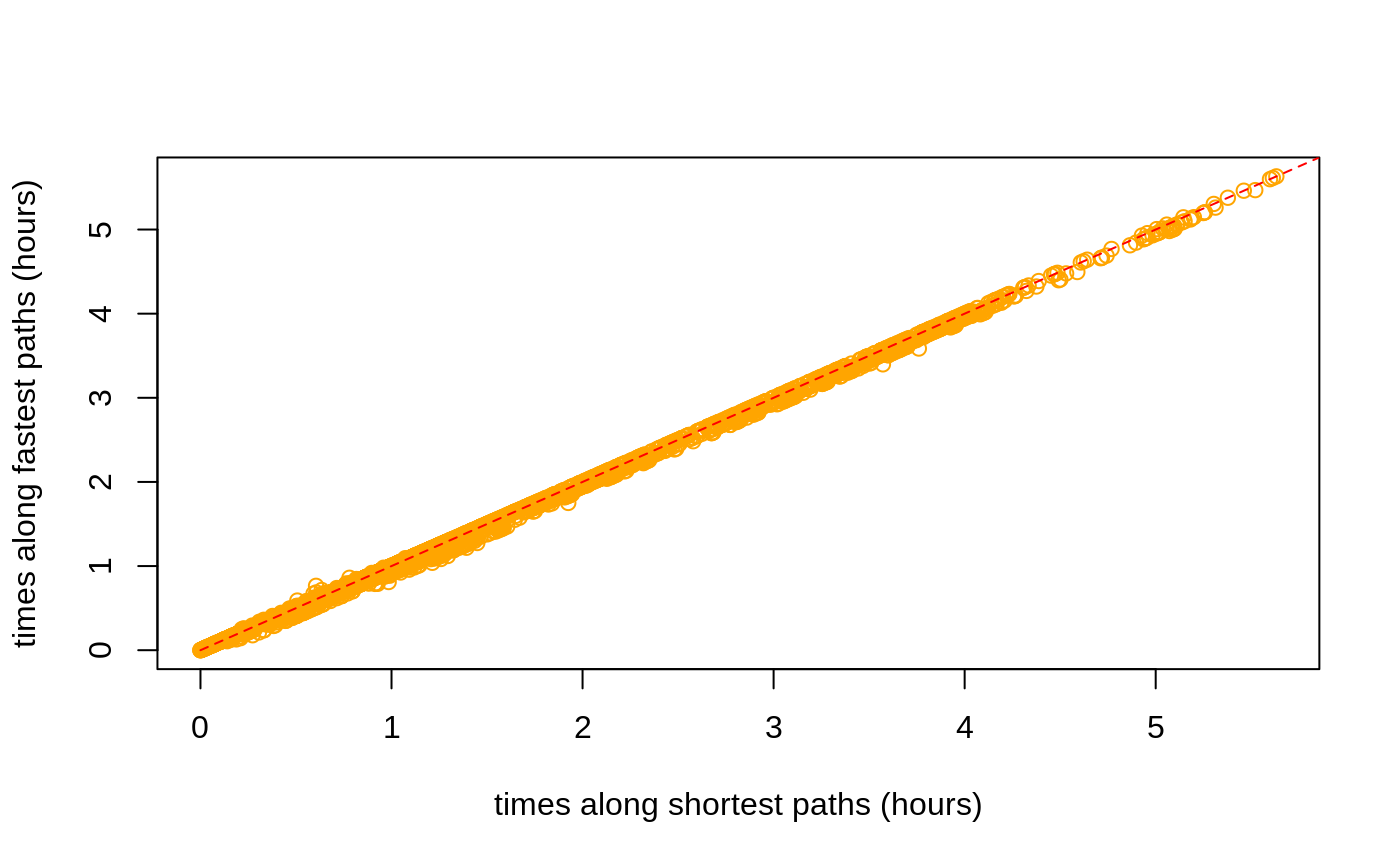
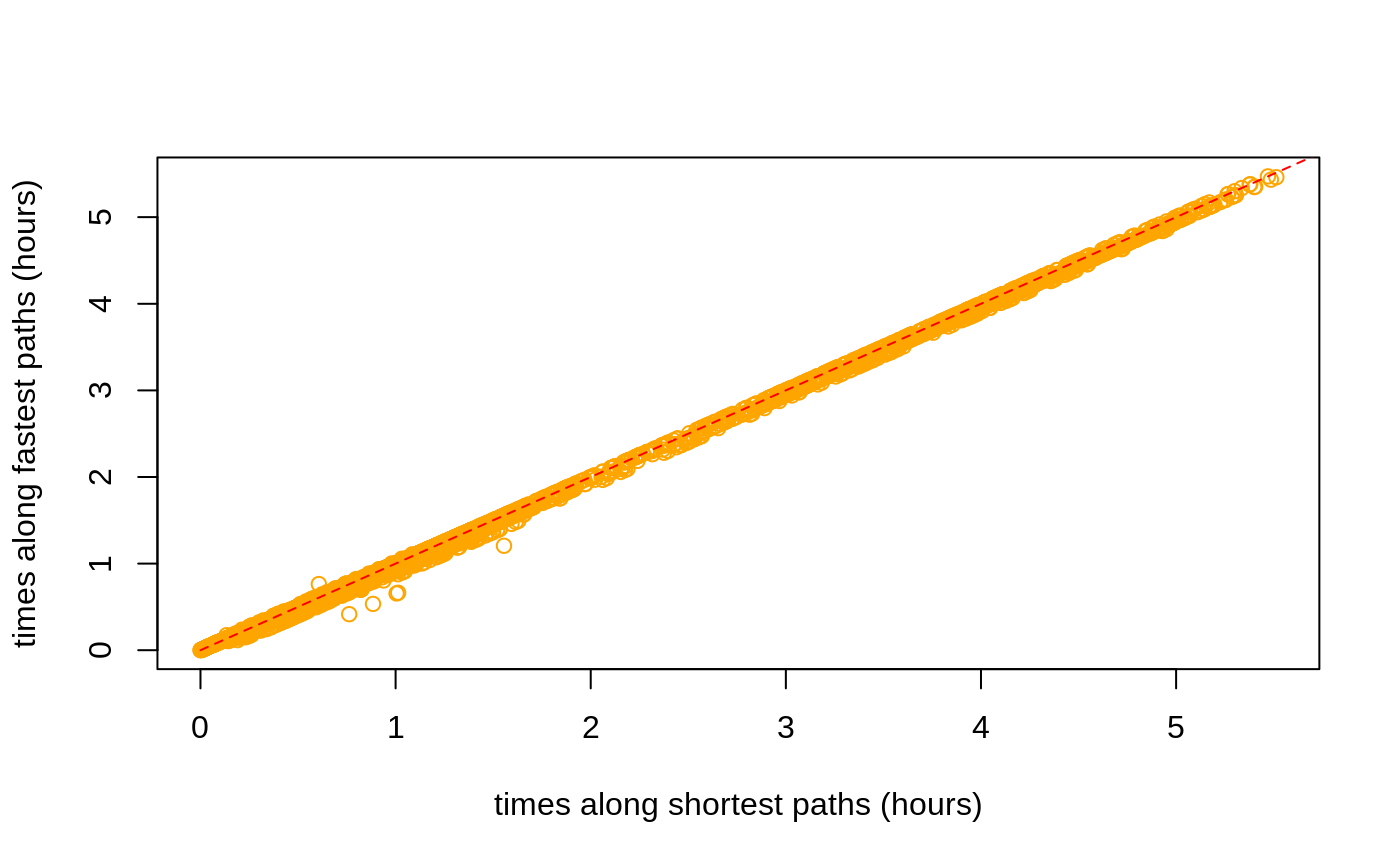
Built site for dodgr: 0.2.0.11@3eb94fd

diff --git a/articles/dodgr.html b/articles/dodgr.html
@@ -31,7 +31,7 @@
       </button>
       <span class="navbar-brand">
         <a class="navbar-link" href="../index.html">dodgr</a>
-        <span class="version label label-default" data-toggle="tooltip" data-placement="bottom" title="Released version">0.2.0.10</span>
+        <span class="version label label-default" data-toggle="tooltip" data-placement="bottom" title="Released version">0.2.0.11</span>
       </span>
     </div>
 
@@ -346,7 +346,7 @@ Figure 2: A <strong>dual</strong>-weighted, directed graph in which the weights 
 <p>The <code>dodgr</code> packages includes a function to select a random connected portion of graph including a specified number of vertices. This function is used in the <a href="https://atfutures.github.io/dodgr/reference/compare_heaps.html"><code><a href="../reference/compare_heaps.html">compare_heaps()</a></code></a> function described below, but is also useful for general statistical analyses of large graphs which may otherwise take too long to compute.</p>
 <div class="sourceCode" id="cb59"><pre class="sourceCode r"><code class="sourceCode r"><a class="sourceLine" id="cb59-1" data-line-number="1">graph_sub &lt;-<span class="st"> </span><span class="kw"><a href="../reference/dodgr_sample.html">dodgr_sample</a></span> (graph, <span class="dt">nverts =</span> <span class="dv">100</span>)</a>
 <a class="sourceLine" id="cb59-2" data-line-number="2"><span class="kw"><a href="https://rdrr.io/r/base/nrow.html">nrow</a></span> (graph_sub)</a></code></pre></div>
-<pre><code>## [1] 197</code></pre>
+<pre><code>## [1] 201</code></pre>
 <p>The random sample has around twice as many edges as vertices, in accordance with the statistics calculated above.</p>
 <div class="sourceCode" id="cb61"><pre class="sourceCode r"><code class="sourceCode r"><a class="sourceLine" id="cb61-1" data-line-number="1"><span class="kw"><a href="https://rdrr.io/r/base/nrow.html">nrow</a></span> (<span class="kw"><a href="../reference/dodgr_vertices.html">dodgr_vertices</a></span> (graph_sub))</a></code></pre></div>
 <pre><code>## [1] 100</code></pre>
@@ -423,31 +423,31 @@ Figure 2: A <strong>dual</strong>-weighted, directed graph in which the weights 
 <p>The comparisons are actually made on a randomly selected sub-component of the graph containing a defined number of vertices (with a default of 1,000, or the entire graph if it contains fewer than 1,000 vertices).</p>
 <div class="sourceCode" id="cb77"><pre class="sourceCode r"><code class="sourceCode r"><a class="sourceLine" id="cb77-1" data-line-number="1"><span class="kw"><a href="../reference/compare_heaps.html">compare_heaps</a></span> (graph, <span class="dt">nverts =</span> <span class="dv">100</span>, <span class="dt">replications =</span> <span class="dv">1</span>)</a></code></pre></div>
 <pre><code>##                                                                                   test
+## 12                  d &lt;- igraph::distances(igr, v = from_id, to = to_id, mode = "out")
 ## 6       d &lt;- dodgr_dists(graph_contracted, from = from_id, to = to_id, heap = "BHeap")
+## 9  d &lt;- dodgr_dists(graph_contracted, from = from_id, to = to_id, heap = "TriHeapExt")
+## 10     d &lt;- dodgr_dists(graph_contracted, from = from_id, to = to_id, heap = "Heap23")
 ## 7       d &lt;- dodgr_dists(graph_contracted, from = from_id, to = to_id, heap = "FHeap")
 ## 8     d &lt;- dodgr_dists(graph_contracted, from = from_id, to = to_id, heap = "TriHeap")
-## 10     d &lt;- dodgr_dists(graph_contracted, from = from_id, to = to_id, heap = "Heap23")
-## 12                  d &lt;- igraph::distances(igr, v = from_id, to = to_id, mode = "out")
-## 9  d &lt;- dodgr_dists(graph_contracted, from = from_id, to = to_id, heap = "TriHeapExt")
 ## 11        d &lt;- dodgr_dists(graph_contracted, from = from_id, to = to_id, heap = "set")
 ## 4             d &lt;- dodgr_dists(graph, from = from_id, to = to_id, heap = "TriHeapExt")
-## 5                 d &lt;- dodgr_dists(graph, from = from_id, to = to_id, heap = "Heap23")
 ## 1                  d &lt;- dodgr_dists(graph, from = from_id, to = to_id, heap = "BHeap")
+## 5                 d &lt;- dodgr_dists(graph, from = from_id, to = to_id, heap = "Heap23")
 ## 2                  d &lt;- dodgr_dists(graph, from = from_id, to = to_id, heap = "FHeap")
 ## 3                d &lt;- dodgr_dists(graph, from = from_id, to = to_id, heap = "TriHeap")
 ##    replications elapsed relative user.self sys.self user.child sys.child
-## 6             1   0.002      1.0     0.003        0          0         0
-## 7             1   0.002      1.0     0.003        0          0         0
-## 8             1   0.002      1.0     0.002        0          0         0
-## 10            1   0.002      1.0     0.002        0          0         0
-## 12            1   0.002      1.0     0.002        0          0         0
-## 9             1   0.003      1.5     0.003        0          0         0
-## 11            1   0.003      1.5     0.003        0          0         0
-## 4             1   0.004      2.0     0.004        0          0         0
-## 5             1   0.004      2.0     0.003        0          0         0
-## 1             1   0.005      2.5     0.005        0          0         0
-## 2             1   0.005      2.5     0.006        0          0         0
-## 3             1   0.005      2.5     0.005        0          0         0</code></pre>
+## 12            1   0.001        1     0.002    0.000          0         0
+## 6             1   0.002        2     0.000    0.003          0         0
+## 9             1   0.002        2     0.003    0.000          0         0
+## 10            1   0.002        2     0.003    0.000          0         0
+## 7             1   0.003        3     0.003    0.000          0         0
+## 8             1   0.003        3     0.003    0.000          0         0
+## 11            1   0.003        3     0.003    0.000          0         0
+## 4             1   0.004        4     0.005    0.000          0         0
+## 1             1   0.005        5     0.005    0.000          0         0
+## 5             1   0.005        5     0.006    0.000          0         0
+## 2             1   0.006        6     0.006    0.000          0         0
+## 3             1   0.006        6     0.005    0.000          0         0</code></pre>
 <p>The key column of that <code>data.frame</code> is <code>relative</code>, which quantifies the relative performance of each test in relation to the best which is given a score of 1. <code>dodgr</code> using the default <code>heap = "BHeap"</code>, which is a binary heap priority queue, performs faster than <a href="https://igraph.org"><code>igraph</code></a> <span class="citation">(Csardi and Nepusz 2006)</span> for these graphs. Different kind of graphs will perform differently with different priority queue structures, and this function enables users to empirically discern the optimal heap for their kind of graph.</p>
 <p>Note, however, that this is not an entirely fair comparison, because <code>dodgr</code> calculates dual-weighted distances, whereas <a href="https://igraph.org"><code>igraph</code></a>—and indeed all other <strong>R</strong> packages—only directly calculate distances based on a single set of weights. Implementing dual-weighted routing in these cases requires explicitly re-tracing all paths and summing the second set of weights along each path. A time comparison in that case would be very strongly in favour of <code>dodgr</code>. Moreover, <code>dodgr</code> can convert graphs to contracted form through removing redundant vertices, as detailed in the following section. Doing so greatly improves performance with respect to <a href="https://igraph.org"><code>igraph</code></a>.</p>
 <p>For those wishing to do explicit comparisons themselves, the following code generates the <a href="https://igraph.org"><code>igraph</code></a> equivalent of <a href="https://atfutures.github.io/dodgr/reference/dodgr_distances.html"><code><a href="../reference/dodgr_distances.html">dodgr_distances()</a></code></a>, although of course for single-weighted graphs only:</p>
@@ -500,11 +500,11 @@ Figure 3: <strong>(A)</strong> Vertex#2 is redundant for routing calculations fr
 <pre><code>## [1] 672</code></pre>
 <div class="sourceCode" id="cb89"><pre class="sourceCode r"><code class="sourceCode r"><a class="sourceLine" id="cb89-1" data-line-number="1">verts &lt;-<span class="st"> </span><span class="kw"><a href="https://rdrr.io/r/base/sample.html">sample</a></span> (<span class="kw"><a href="../reference/dodgr_vertices.html">dodgr_vertices</a></span> (graph)<span class="op">$</span>id, <span class="dt">size =</span> <span class="dv">100</span>)</a>
 <a class="sourceLine" id="cb89-2" data-line-number="2"><span class="kw"><a href="https://rdrr.io/r/utils/head.html">head</a></span> (verts) <span class="co"># a character vector</span></a></code></pre></div>
-<pre><code>## [1] "1161117704" "1148814864" "339574314"  "2398957697" "1691495929"
-## [6] "2398957864"</code></pre>
+<pre><code>## [1] "339318490"  "4337842215" "2608163897" "1376768821" "1376768839"
+## [6] "980400706"</code></pre>
 <div class="sourceCode" id="cb91"><pre class="sourceCode r"><code class="sourceCode r"><a class="sourceLine" id="cb91-1" data-line-number="1">grc &lt;-<span class="st"> </span><span class="kw"><a href="../reference/dodgr_contract_graph.html">dodgr_contract_graph</a></span> (graph, verts)</a>
 <a class="sourceLine" id="cb91-2" data-line-number="2"><span class="kw"><a href="https://rdrr.io/r/base/nrow.html">nrow</a></span> (grc)</a></code></pre></div>
-<pre><code>## [1] 847</code></pre>
+<pre><code>## [1] 844</code></pre>
 <p>Retaining the nominated vertices yields a graph with considerably more edges than the fully contracted graph excluding these vertices. The <a href="https://atfutures.github.io/dodgr/reference/dodgr_distances.html"><code><a href="../reference/dodgr_distances.html">dodgr_distances()</a></code></a> function can be applied to the latter graph to obtain accurate distances precisely routed between these points, yet using the speed advantages of graph contraction.</p>
 </div>
 </div>
@@ -545,31 +545,39 @@ Figure 3: <strong>(A)</strong> Vertex#2 is redundant for routing calculations fr
 <pre><code>## [1] 10</code></pre>
 <p>The result (<code>dp</code>) is a list of 10 items, each of which contains 5 vectors. An example is,</p>
 <div class="sourceCode" id="cb98"><pre class="sourceCode r"><code class="sourceCode r"><a class="sourceLine" id="cb98-1" data-line-number="1">dp [[<span class="dv">1</span>]] [[<span class="dv">1</span>]]</a></code></pre></div>
-<pre><code>##  [1] "3921523009" "3921523007" "3921523006" "3921523005" "3921523003"
-##  [6] "3921523002" "3921523001" "3921523000" "3921523004" "3921522999"
-## [11] "3921522997" "3921522998" "3921522996" "3921522995" "3921522994"
-## [16] "3921522993" "3921523008" "3921522992" "3921522974" "3921522991"
-## [21] "3921522990" "3921522989" "3921522987" "1204772895" "1204772726"
-## [26] "1204772914" "1388483784" "1388482296" "1388483001" "1204772748"
-## [31] "1204772807" "1204772888" "1388483168" "1204772860" "1204772663"
-## [36] "1388482943" "1388482235" "977472736"  "977472640"  "1388483756"
-## [41] "1388483120" "977472872"  "977472830"  "977473072"  "977472969" 
-## [46] "1388483451" "977473047"  "6410121123" "2627480728" "4552228189"
-## [51] "977472811"  "977472776"  "5351394447" "977473010"  "977472907" 
-## [56] "977473143"  "5351394450" "5351394449" "977472990"  "5351394451"
-## [61] "5351394452" "977472618"  "5351394453" "977473123"  "977472755" 
-## [66] "977472717"  "977472947"  "977472850"</code></pre>
+<pre><code>##   [1] "2398957879" "2398957875" "2398957873" "2398957871" "2398957867"
+##   [6] "2398957865" "286632900"  "1148814896" "338908589"  "2398957843"
+##  [11] "338904455"  "1054862659" "2398957839" "1148814749" "2398957836"
+##  [16] "1148815271" "2398957833" "1054866750" "2398957830" "338904628" 
+##  [21] "2398957829" "2398957827" "1148815092" "338904630"  "2398957824"
+##  [26] "338904633"  "2398957822" "2398957821" "1054865512" "2398957817"
+##  [31] "4035136525" "338904640"  "2398957815" "339577486"  "2398957811"
+##  [36] "2398957807" "338904641"  "1148815069" "1376768646" "338904736" 
+##  [41] "3338186190" "3338186191" "2398957791" "338904757"  "1148814936"
+##  [46] "2398957788" "2398957786" "2398957785" "338904763"  "2398957784"
+##  [51] "1148814651" "2398957781" "338904786"  "1148815010" "5358983985"
+##  [56] "3338186939" "338904808"  "3338186940" "3338186941" "338904837" 
+##  [61] "2398957773" "2398957769" "1148814881" "2398957767" "2398957766"
+##  [66] "338904865"  "3338186942" "1148814720" "338904873"  "2398957771"
+##  [71] "2398957770" "338904889"  "1148815220" "338904910"  "2398957759"
+##  [76] "1148814697" "2398957752" "338904911"  "1148815173" "2398957745"
+##  [81] "338904980"  "338904982"  "2398957732" "2398957731" "2398957726"
+##  [86] "2398957725" "338905024"  "2398957723" "2398957718" "1148815140"
+##  [91] "1376768330" "1376768904" "2398957715" "2398957716" "1376768543"
+##  [96] "1376769137" "1376768847" "1376768484" "1376769045" "4506481428"
+## [101] "4506481427" "4506481426" "4506481425" "4506481424" "4506481423"
+## [106] "4506481422" "4506481421" "4506481420" "4506481419" "4506481418"</code></pre>
 <p>For spatial graphs, the coordinates of these paths can be obtained by extracting the vertices with <code><a href="../reference/dodgr_vertices.html">dodgr_vertices()</a></code> and matching the vertex IDs:</p>
 <div class="sourceCode" id="cb100"><pre class="sourceCode r"><code class="sourceCode r"><a class="sourceLine" id="cb100-1" data-line-number="1">verts &lt;-<span class="st"> </span><span class="kw"><a href="../reference/dodgr_vertices.html">dodgr_vertices</a></span> (graph)</a>
 <a class="sourceLine" id="cb100-2" data-line-number="2">path1 &lt;-<span class="st"> </span>verts [<span class="kw"><a href="https://rdrr.io/r/base/match.html">match</a></span> (dp [[<span class="dv">1</span>]] [[<span class="dv">1</span>]], verts<span class="op">$</span>id), ]</a>
 <a class="sourceLine" id="cb100-3" data-line-number="3"><span class="kw"><a href="https://rdrr.io/r/utils/head.html">head</a></span> (path1)</a></code></pre></div>
 <pre><code>##              id        x        y component    n
-## 5120 3921523009 76.43698 15.34652         2 2529
-## 5118 3921523007 76.43789 15.34695         2 2528
-## 5116 3921523006 76.43809 15.34763         2 2527
-## 5114 3921523005 76.43816 15.34775         2 2526
-## 5112 3921523003 76.43847 15.34772         2 2525
-## 5110 3921523002 76.43887 15.34769         2 2524</code></pre>
+## 3422 2398957879 76.46050 15.33203         1 1720
+## 3420 2398957875 76.46052 15.33193         1 1719
+## 3418 2398957873 76.46054 15.33180         1 1718
+## 3416 2398957871 76.46060 15.33167         1 1717
+## 3414 2398957867 76.46066 15.33155         1 1716
+## 3413 2398957865 76.46072 15.33150         1 1715</code></pre>
 <p>Paths calculated on contracted graphs will of course have fewer vertices than those calculated on full graphs.</p>
 </div>
 <div id="aggregated-flows" class="section level1">
@@ -613,7 +621,7 @@ Figure 3: <strong>(A)</strong> Vertex#2 is redundant for routing calculations fr
 <p>Most flows are zero because they have only been calculated between very few points in the graph.</p>
 <div class="sourceCode" id="cb105"><pre class="sourceCode r"><code class="sourceCode r"><a class="sourceLine" id="cb105-1" data-line-number="1"><span class="kw"><a href="https://rdrr.io/r/base/summary.html">summary</a></span> (graph_f<span class="op">$</span>flow)</a></code></pre></div>
 <pre><code>##    Min. 1st Qu.  Median    Mean 3rd Qu.    Max. 
-##   0.000   0.000   0.000   6.306   0.000  71.745</code></pre>
+##   0.000   0.000   0.000   4.833   0.000  80.429</code></pre>
 </div>
 <div id="flow-dispersal" class="section level2">
 <h2 class="hasAnchor">
@@ -623,7 +631,7 @@ Figure 3: <strong>(A)</strong> Vertex#2 is redundant for routing calculations fr
 <a class="sourceLine" id="cb107-2" data-line-number="2">graph_f &lt;-<span class="st"> </span><span class="kw"><a href="../reference/dodgr_flows_disperse.html">dodgr_flows_disperse</a></span> (graph, <span class="dt">from =</span> from, <span class="dt">dens =</span> dens)</a>
 <a class="sourceLine" id="cb107-3" data-line-number="3"><span class="kw"><a href="https://rdrr.io/r/base/summary.html">summary</a></span> (graph_f<span class="op">$</span>flow)</a></code></pre></div>
 <pre><code>##     Min.  1st Qu.   Median     Mean  3rd Qu.     Max. 
-## 0.000000 0.000000 0.005496 0.072961 0.050461 1.251156</code></pre>
+## 0.000000 0.000000 0.005618 0.086806 0.045928 1.238462</code></pre>
 </div>
 <div id="merging-directed-flows" class="section level2">
 <h2 class="hasAnchor">
@@ -633,7 +641,7 @@ Figure 3: <strong>(A)</strong> Vertex#2 is redundant for routing calculations fr
 <p>Resultant graphs produced by <a href="https://atfutures.github.io/dodgr/reference/merge_directed_flows.html"><code><a href="../reference/merge_directed_flows.html">merge_directed_flows()</a></code></a> only include those edges having non-zero flows, and so:</p>
 <div class="sourceCode" id="cb110"><pre class="sourceCode r"><code class="sourceCode r"><a class="sourceLine" id="cb110-1" data-line-number="1"><span class="kw"><a href="https://rdrr.io/r/base/nrow.html">nrow</a></span> (graph_f); <span class="kw"><a href="https://rdrr.io/r/base/nrow.html">nrow</a></span> (graph_undir) <span class="co"># the latter is much smaller</span></a></code></pre></div>
 <pre><code>## [1] 5973</code></pre>
-<pre><code>## [1] 2775</code></pre>
+<pre><code>## [1] 2821</code></pre>
 <p>The resultant graph can readily be merged with the original graph to regain the original data on vertex coordinates through</p>
 <div class="sourceCode" id="cb113"><pre class="sourceCode r"><code class="sourceCode r"><a class="sourceLine" id="cb113-1" data-line-number="1">graph &lt;-<span class="st"> </span>graph [graph_undir<span class="op">$</span>edge_id, ]</a>
 <a class="sourceLine" id="cb113-2" data-line-number="2">graph<span class="op">$</span>flow &lt;-<span class="st"> </span>graph_undir<span class="op">$</span>flow</a></code></pre></div>

diff --git a/articles/times.html b/articles/times.html
@@ -31,7 +31,7 @@
       </button>
       <span class="navbar-brand">
         <a class="navbar-link" href="../index.html">dodgr</a>
-        <span class="version label label-default" data-toggle="tooltip" data-placement="bottom" title="Released version">0.2.0.10</span>
+        <span class="version label label-default" data-toggle="tooltip" data-placement="bottom" title="Released version">0.2.0.11</span>
       </span>
     </div>
 
@@ -230,11 +230,11 @@ Figure 1: Graph modification to account for turn penalties, which introduces the
 <p><img src="times_files/figure-html/shortest-vs-fastest-1.png" width="700"></p>
 <p>The average distance between the two (in metres) is:</p>
 <div class="sourceCode" id="cb9"><pre class="sourceCode r"><code class="sourceCode r"><a class="sourceLine" id="cb9-1" data-line-number="1"><span class="kw"><a href="https://rdrr.io/r/base/mean.html">mean</a></span> (<span class="kw"><a href="https://rdrr.io/r/base/MathFun.html">abs</a></span> (d_time <span class="op">-</span><span class="st"> </span>d_dist), <span class="dt">na.rm =</span> <span class="ot">TRUE</span>)</a></code></pre></div>
-<pre><code>## [1] 47.17017</code></pre>
+<pre><code>## [1] 55.00727</code></pre>
 <p>The plot reveals that shortest distances are indeed somewhat shorter than distances along fastest paths, but also that some fastest paths are actually shorter than shortest paths:</p>
 <div class="sourceCode" id="cb11"><pre class="sourceCode r"><code class="sourceCode r"><a class="sourceLine" id="cb11-1" data-line-number="1">index &lt;-<span class="st"> </span><span class="kw"><a href="https://rdrr.io/r/base/which.html">which</a></span> (<span class="op">!</span><span class="kw"><a href="https://rdrr.io/r/base/NA.html">is.na</a></span> (d_time) <span class="op">&amp;</span><span class="st"> </span><span class="op">!</span><span class="kw"><a href="https://rdrr.io/r/base/NA.html">is.na</a></span> (d_dist))</a>
 <a class="sourceLine" id="cb11-2" data-line-number="2"><span class="kw"><a href="https://rdrr.io/r/base/length.html">length</a></span> (<span class="kw"><a href="https://rdrr.io/r/base/which.html">which</a></span> (d_time [index] <span class="op">&lt;</span><span class="st"> </span>d_dist [index])) <span class="op">/</span><span class="st"> </span><span class="kw"><a href="https://rdrr.io/r/base/length.html">length</a></span> (index)</a></code></pre></div>
-<pre><code>## [1] 0.02640325</code></pre>
+<pre><code>## [1] 0.02220249</code></pre>
 <p>While <code>dodgr</code> and indeed all routing engines attempt to maximally reconcile differences between fastest and shortest routes, there nevertheless remain important discrepancies. Foremost among these, and the primary reason why some fastest routes may in fact be shorter than shortest routes, is that fastest routes allocate preferences for different kinds of way based both on the <code>value</code> column in the <code>weighting_profiles$weighting_profiles</code> table illustrated above, and on the actual maximum speed of a given edge, which itself may be a combination of maximum speeds as specified in OSM itself, maximum speeds from the <code>weighting_profiles$weighting_profiles</code> table, or values specific to a given surface. The result is that some unique combination of maximum speeds along a network may lead to <em>fastest</em> routes being preferentially directed along a path that is actually shorter than the direct shortest path which is calculated independent of maximum speed values.</p>
 <p>Such discrepancies are important in understanding differences in routes <em>times</em> calculated along shortest versus fastest paths. These times can be calculated (in seconds) with the <a href="https://atfutures.github.io/dodgr/reference/dodgr_times.html"><code><a href="../reference/dodgr_times.html">dodgr_times()</a></code></a> function:</p>
 <div class="sourceCode" id="cb13"><pre class="sourceCode r"><code class="sourceCode r"><a class="sourceLine" id="cb13-1" data-line-number="1">t_dist &lt;-<span class="st"> </span><span class="kw"><a href="../reference/dodgr_times.html">dodgr_times</a></span> (graph, <span class="dt">from =</span> from, <span class="dt">to =</span> to, <span class="dt">shortest =</span> <span class="ot">TRUE</span>) <span class="co"># default</span></a>
@@ -245,11 +245,11 @@ Figure 1: Graph modification to account for turn penalties, which introduces the
 <a class="sourceLine" id="cb13-6" data-line-number="6"><span class="kw"><a href="https://rdrr.io/r/graphics/lines.html">lines</a></span> (<span class="dv">0</span><span class="op">:</span><span class="dv">100</span>, <span class="dv">0</span><span class="op">:</span><span class="dv">100</span>, <span class="dt">col =</span> <span class="st">"red"</span>, <span class="dt">lty =</span> <span class="dv">2</span>)</a></code></pre></div>
 <p><img src="times_files/figure-html/shortest-vs-fastest-times-1.png" width="700"></p>
 <div class="sourceCode" id="cb14"><pre class="sourceCode r"><code class="sourceCode r"><a class="sourceLine" id="cb14-1" data-line-number="1"><span class="kw"><a href="https://rdrr.io/r/base/mean.html">mean</a></span> (<span class="kw"><a href="https://rdrr.io/r/base/MathFun.html">abs</a></span> (t_time <span class="op">-</span><span class="st"> </span>t_dist), <span class="dt">na.rm =</span> <span class="ot">TRUE</span>)</a></code></pre></div>
-<pre><code>## [1] 53.58016</code></pre>
+<pre><code>## [1] 59.09606</code></pre>
 <p>As above, times along fastest paths are generally less than times along shortest paths, although there are again a few exceptions:</p>
 <div class="sourceCode" id="cb16"><pre class="sourceCode r"><code class="sourceCode r"><a class="sourceLine" id="cb16-1" data-line-number="1">index &lt;-<span class="st"> </span><span class="kw"><a href="https://rdrr.io/r/base/which.html">which</a></span> (<span class="op">!</span><span class="kw"><a href="https://rdrr.io/r/base/NA.html">is.na</a></span> (t_time) <span class="op">&amp;</span><span class="st"> </span><span class="op">!</span><span class="kw"><a href="https://rdrr.io/r/base/NA.html">is.na</a></span> (t_dist))</a>
 <a class="sourceLine" id="cb16-2" data-line-number="2"><span class="kw"><a href="https://rdrr.io/r/base/length.html">length</a></span> (<span class="kw"><a href="https://rdrr.io/r/base/which.html">which</a></span> (t_dist [index] <span class="op">&lt;</span><span class="st"> </span>t_time [index])) <span class="op">/</span><span class="st"> </span><span class="kw"><a href="https://rdrr.io/r/base/length.html">length</a></span> (index)</a></code></pre></div>
-<pre><code>## [1] 0.008308715</code></pre>
+<pre><code>## [1] 0.01634103</code></pre>
 <p>These results demonstrate how the combination of the <a href="https://atfutures.github.io/dodgr/reference/dodgr_distances.html"><code><a href="../reference/dodgr_distances.html">dodgr_distances()</a></code></a> and <a href="https://atfutures.github.io/dodgr/reference/dodgr_times.html"><code><a href="../reference/dodgr_times.html">dodgr_times()</a></code></a> functions enable calculation of both distances and times along both shortest and fastest paths.</p>
 <div id="time-based-paths-and-flow-aggregation" class="section level2">
 <h2 class="hasAnchor">

diff --git a/reference/compare_heaps.html b/reference/compare_heaps.html
@@ -73,7 +73,7 @@ dodgr_sample function and passed directly." />
       </button>
       <span class="navbar-brand">
         <a class="navbar-link" href="../index.html">dodgr</a>
-        <span class="version label label-default" data-toggle="tooltip" data-placement="bottom" title="Released version">0.2.0.10</span>
+        <span class="version label label-default" data-toggle="tooltip" data-placement="bottom" title="Released version">0.2.0.11</span>
       </span>
     </div>
 
@@ -156,12 +156,12 @@ fair comparisons, run only once or re-start the current R session.</p>
     <h2 class="hasAnchor" id="examples"><a class="anchor" href="#examples"></a>Examples</h2>
     <pre class="examples"><div class='input'><span class='no'>graph</span> <span class='kw'>&lt;-</span> <span class='fu'><a href='weight_streetnet.html'>weight_streetnet</a></span> (<span class='no'>hampi</span>)
 <span class='fu'>compare_heaps</span> (<span class='no'>graph</span>, <span class='kw'>nverts</span> <span class='kw'>=</span> <span class='fl'>1000</span>, <span class='kw'>replications</span> <span class='kw'>=</span> <span class='fl'>1</span>)</div><div class='output co'>#&gt;                                                                                   test
-#&gt; 11        d &lt;- dodgr_dists(graph_contracted, from = from_id, to = to_id, heap = "set")
 #&gt; 6       d &lt;- dodgr_dists(graph_contracted, from = from_id, to = to_id, heap = "BHeap")
+#&gt; 11        d &lt;- dodgr_dists(graph_contracted, from = from_id, to = to_id, heap = "set")
 #&gt; 7       d &lt;- dodgr_dists(graph_contracted, from = from_id, to = to_id, heap = "FHeap")
+#&gt; 10     d &lt;- dodgr_dists(graph_contracted, from = from_id, to = to_id, heap = "Heap23")
 #&gt; 8     d &lt;- dodgr_dists(graph_contracted, from = from_id, to = to_id, heap = "TriHeap")
 #&gt; 9  d &lt;- dodgr_dists(graph_contracted, from = from_id, to = to_id, heap = "TriHeapExt")
-#&gt; 10     d &lt;- dodgr_dists(graph_contracted, from = from_id, to = to_id, heap = "Heap23")
 #&gt; 1                  d &lt;- dodgr_dists(graph, from = from_id, to = to_id, heap = "BHeap")
 #&gt; 12                  d &lt;- igraph::distances(igr, v = from_id, to = to_id, mode = "out")
 #&gt; 2                  d &lt;- dodgr_dists(graph, from = from_id, to = to_id, heap = "FHeap")
@@ -169,18 +169,18 @@ fair comparisons, run only once or re-start the current R session.</p>
 #&gt; 3                d &lt;- dodgr_dists(graph, from = from_id, to = to_id, heap = "TriHeap")
 #&gt; 4             d &lt;- dodgr_dists(graph, from = from_id, to = to_id, heap = "TriHeapExt")
 #&gt;    replications elapsed relative user.self sys.self user.child sys.child
-#&gt; 11            1   0.005      1.0     0.007        0          0         0
-#&gt; 6             1   0.006      1.2     0.008        0          0         0
-#&gt; 7             1   0.007      1.4     0.011        0          0         0
-#&gt; 8             1   0.007      1.4     0.011        0          0         0
-#&gt; 9             1   0.008      1.6     0.008        0          0         0
-#&gt; 10            1   0.008      1.6     0.011        0          0         0
-#&gt; 1             1   0.017      3.4     0.027        0          0         0
-#&gt; 12            1   0.024      4.8     0.024        0          0         0
-#&gt; 2             1   0.027      5.4     0.045        0          0         0
-#&gt; 5             1   0.029      5.8     0.051        0          0         0
-#&gt; 3             1   0.030      6.0     0.053        0          0         0
-#&gt; 4             1   0.033      6.6     0.033        0          0         0</div></pre>
+#&gt; 6             1   0.003    1.000     0.004        0          0         0
+#&gt; 11            1   0.003    1.000     0.005        0          0         0
+#&gt; 7             1   0.004    1.333     0.005        0          0         0
+#&gt; 10            1   0.004    1.333     0.006        0          0         0
+#&gt; 8             1   0.005    1.667     0.006        0          0         0
+#&gt; 9             1   0.005    1.667     0.004        0          0         0
+#&gt; 1             1   0.011    3.667     0.018        0          0         0
+#&gt; 12            1   0.014    4.667     0.014        0          0         0
+#&gt; 2             1   0.017    5.667     0.029        0          0         0
+#&gt; 5             1   0.020    6.667     0.033        0          0         0
+#&gt; 3             1   0.021    7.000     0.035        0          0         0
+#&gt; 4             1   0.022    7.333     0.021        0          0         0</div></pre>
   </div>
   <div class="col-md-3 hidden-xs hidden-sm" id="sidebar">
     <h2>Contents</h2>

diff --git a/reference/match_points_to_graph.html b/reference/match_points_to_graph.html
@@ -69,7 +69,7 @@
       </button>
       <span class="navbar-brand">
         <a class="navbar-link" href="../index.html">dodgr</a>
-        <span class="version label label-default" data-toggle="tooltip" data-placement="bottom" title="Released version">0.2.0.10</span>
+        <span class="version label label-default" data-toggle="tooltip" data-placement="bottom" title="Released version">0.2.0.11</span>
       </span>
     </div>
 
@@ -155,9 +155,9 @@ matching.</p></td>
                   <span class='kw'>y</span> <span class='kw'>=</span> <span class='fu'><a href='https://rdrr.io/r/base/Extremes.html'>min</a></span> (<span class='no'>verts</span>$<span class='no'>y</span>) + <span class='fu'><a href='https://rdrr.io/r/stats/Uniform.html'>runif</a></span> (<span class='no'>npts</span>) * <span class='fu'><a href='https://rdrr.io/r/base/diff.html'>diff</a></span> (<span class='fu'><a href='https://rdrr.io/r/base/range.html'>range</a></span> (<span class='no'>verts</span>$<span class='no'>y</span>))
                   )
 <span class='no'>pts</span> <span class='kw'>&lt;-</span> <span class='fu'><a href='match_pts_to_graph.html'>match_pts_to_graph</a></span> (<span class='no'>verts</span>, <span class='no'>xy</span>)
-<span class='no'>pts</span> <span class='co'># an index into verts</span></div><div class='output co'>#&gt;  [1]  581  366 2493  739  871  750  519  738  521 1514</div><div class='input'><span class='no'>pts</span> <span class='kw'>&lt;-</span> <span class='no'>verts</span>$<span class='no'>id</span> [<span class='no'>pts</span>]
-<span class='no'>pts</span> <span class='co'># names of those vertices</span></div><div class='output co'>#&gt;  [1] "3544918709" "2398957554" "3921517060" "1204772804" "571423202" 
-#&gt;  [6] "1204772759" "676875383"  "6025347259" "1161117620" "1398747927"</div></pre>
+<span class='no'>pts</span> <span class='co'># an index into verts</span></div><div class='output co'>#&gt;  [1]  890  459  581  366 2493  739  871  750  519  738</div><div class='input'><span class='no'>pts</span> <span class='kw'>&lt;-</span> <span class='no'>verts</span>$<span class='no'>id</span> [<span class='no'>pts</span>]
+<span class='no'>pts</span> <span class='co'># names of those vertices</span></div><div class='output co'>#&gt;  [1] "571423209"  "2398958040" "3544918709" "2398957554" "3921517060"
+#&gt;  [6] "1204772804" "571423202"  "1204772759" "676875383"  "6025347259"</div></pre>
   </div>
   <div class="col-md-3 hidden-xs hidden-sm" id="sidebar">
     <h2>Contents</h2>

diff --git a/reference/match_pts_to_graph.html b/reference/match_pts_to_graph.html
@@ -69,7 +69,7 @@
       </button>
       <span class="navbar-brand">
         <a class="navbar-link" href="../index.html">dodgr</a>
-        <span class="version label label-default" data-toggle="tooltip" data-placement="bottom" title="Released version">0.2.0.10</span>
+        <span class="version label label-default" data-toggle="tooltip" data-placement="bottom" title="Released version">0.2.0.11</span>
       </span>
     </div>
 
@@ -155,9 +155,9 @@ matching.</p></td>
                   <span class='kw'>y</span> <span class='kw'>=</span> <span class='fu'><a href='https://rdrr.io/r/base/Extremes.html'>min</a></span> (<span class='no'>verts</span>$<span class='no'>y</span>) + <span class='fu'><a href='https://rdrr.io/r/stats/Uniform.html'>runif</a></span> (<span class='no'>npts</span>) * <span class='fu'><a href='https://rdrr.io/r/base/diff.html'>diff</a></span> (<span class='fu'><a href='https://rdrr.io/r/base/range.html'>range</a></span> (<span class='no'>verts</span>$<span class='no'>y</span>))
                   )
 <span class='no'>pts</span> <span class='kw'>&lt;-</span> <span class='fu'>match_pts_to_graph</span> (<span class='no'>verts</span>, <span class='no'>xy</span>)
-<span class='no'>pts</span> <span class='co'># an index into verts</span></div><div class='output co'>#&gt;  [1]  871  510  900  517  520  890 2120 1124 1842 1776</div><div class='input'><span class='no'>pts</span> <span class='kw'>&lt;-</span> <span class='no'>verts</span>$<span class='no'>id</span> [<span class='no'>pts</span>]
-<span class='no'>pts</span> <span class='co'># names of those vertices</span></div><div class='output co'>#&gt;  [1] "571423202"  "245631502"  "1143452386" "677638822"  "1691496081"
-#&gt;  [6] "571423209"  "2627486260" "980400514"  "2588155722" "2588119056"</div></pre>
+<span class='no'>pts</span> <span class='co'># an index into verts</span></div><div class='output co'>#&gt;  [1]  743  454  486 1776  871  510  900  517  520  890</div><div class='input'><span class='no'>pts</span> <span class='kw'>&lt;-</span> <span class='no'>verts</span>$<span class='no'>id</span> [<span class='no'>pts</span>]
+<span class='no'>pts</span> <span class='co'># names of those vertices</span></div><div class='output co'>#&gt;  [1] "1204772772" "2398958005" "1161117652" "2588119056" "571423202" 
+#&gt;  [6] "245631502"  "1143452386" "677638822"  "1691496081" "571423209" </div></pre>
   </div>
   <div class="col-md-3 hidden-xs hidden-sm" id="sidebar">
     <h2>Contents</h2>

diff --git a/reference/dodgr_flows_aggregate.html b/reference/dodgr_flows_aggregate.html
@@ -70,7 +70,7 @@ between all pairs of from and to points." />
       </button>
       <span class="navbar-brand">
         <a class="navbar-link" href="../index.html">dodgr</a>
-        <span class="version label label-default" data-toggle="tooltip" data-placement="bottom" title="Released version">0.2.0.10</span>
+        <span class="version label label-default" data-toggle="tooltip" data-placement="bottom" title="Released version">0.2.0.11</span>
       </span>
     </div>
 
@@ -186,7 +186,7 @@ flows are aggregated. To remove any such effect, set <code>tol = 0</code>.</p></
 <span class='co'># undirected flows on an equivalent undirected graph with:</span>
 <span class='no'>graph_undir</span> <span class='kw'>&lt;-</span> <span class='fu'><a href='merge_directed_flows.html'>merge_directed_flows</a></span> (<span class='no'>graph</span>)
 <span class='co'># This graph will only include those edges having non-zero flows, and so:</span>
-<span class='fu'><a href='https://rdrr.io/r/base/nrow.html'>nrow</a></span> (<span class='no'>graph</span>); <span class='fu'><a href='https://rdrr.io/r/base/nrow.html'>nrow</a></span> (<span class='no'>graph_undir</span>) <span class='co'># the latter is much smaller</span></div><div class='output co'>#&gt; [1] 5973</div><div class='output co'>#&gt; [1] 669</div><div class='input'>
+<span class='fu'><a href='https://rdrr.io/r/base/nrow.html'>nrow</a></span> (<span class='no'>graph</span>); <span class='fu'><a href='https://rdrr.io/r/base/nrow.html'>nrow</a></span> (<span class='no'>graph_undir</span>) <span class='co'># the latter is much smaller</span></div><div class='output co'>#&gt; [1] 5973</div><div class='output co'>#&gt; [1] 913</div><div class='input'>
 <span class='co'># The following code can be used to convert the resultant graph to an `sf`</span>
 <span class='co'># object suitable for plotting</span>
 <span class='kw'>if</span> (<span class='fl'>FALSE</span>) {

diff --git a/reference/weighting_profiles.html b/reference/weighting_profiles.html
@@ -72,7 +72,7 @@ type of surface, and waiting times in seconds at traffic lights." />
       </button>
       <span class="navbar-brand">
         <a class="navbar-link" href="../index.html">dodgr</a>
-        <span class="version label label-default" data-toggle="tooltip" data-placement="bottom" title="Released version">0.2.0.10</span>
+        <span class="version label label-default" data-toggle="tooltip" data-placement="bottom" title="Released version">0.2.0.11</span>
       </span>
     </div>
 

diff --git a/reference/dodgr_uncontract_graph.html b/reference/dodgr_uncontract_graph.html
@@ -72,7 +72,7 @@ on to the original graph, as demonstrated in the example." />
       </button>
       <span class="navbar-brand">
         <a class="navbar-link" href="../index.html">dodgr</a>
-        <span class="version label label-default" data-toggle="tooltip" data-placement="bottom" title="Released version">0.2.0.10</span>
+        <span class="version label label-default" data-toggle="tooltip" data-placement="bottom" title="Released version">0.2.0.11</span>
       </span>
     </div>
 

diff --git a/reference/dodgr_isoverts.html b/reference/dodgr_isoverts.html
@@ -73,7 +73,7 @@ isodistances, or one or more tlim values for isochrones." />
       </button>
       <span class="navbar-brand">
         <a class="navbar-link" href="../index.html">dodgr</a>
-        <span class="version label label-default" data-toggle="tooltip" data-placement="bottom" title="Released version">0.2.0.10</span>
+        <span class="version label label-default" data-toggle="tooltip" data-placement="bottom" title="Released version">0.2.0.11</span>
       </span>
     </div>
 

diff --git a/reference/dodgr_cache_on.html b/reference/dodgr_cache_on.html
@@ -70,7 +70,7 @@ after caching has been turned off with dodgr_cache_off." />
       </button>
       <span class="navbar-brand">
         <a class="navbar-link" href="../index.html">dodgr</a>
-        <span class="version label label-default" data-toggle="tooltip" data-placement="bottom" title="Released version">0.2.0.10</span>
+        <span class="version label label-default" data-toggle="tooltip" data-placement="bottom" title="Released version">0.2.0.11</span>
       </span>
     </div>
 

diff --git a/reference/weight_streetnet.html b/reference/weight_streetnet.html
@@ -71,7 +71,7 @@ bicycle, moped, motorcycle, motorcar, goods, hgv, psv)." />
       </button>
       <span class="navbar-brand">
         <a class="navbar-link" href="../index.html">dodgr</a>
-        <span class="version label label-default" data-toggle="tooltip" data-placement="bottom" title="Released version">0.2.0.10</span>
+        <span class="version label label-default" data-toggle="tooltip" data-placement="bottom" title="Released version">0.2.0.11</span>
       </span>
     </div>
 

diff --git a/reference/dodgr_sflines_to_poly.html b/reference/dodgr_sflines_to_poly.html
@@ -70,7 +70,7 @@ fundamental cycles within the LINESTRING objects." />
       </button>
       <span class="navbar-brand">
         <a class="navbar-link" href="../index.html">dodgr</a>
-        <span class="version label label-default" data-toggle="tooltip" data-placement="bottom" title="Released version">0.2.0.10</span>
+        <span class="version label label-default" data-toggle="tooltip" data-placement="bottom" title="Released version">0.2.0.11</span>
       </span>
     </div>
 
